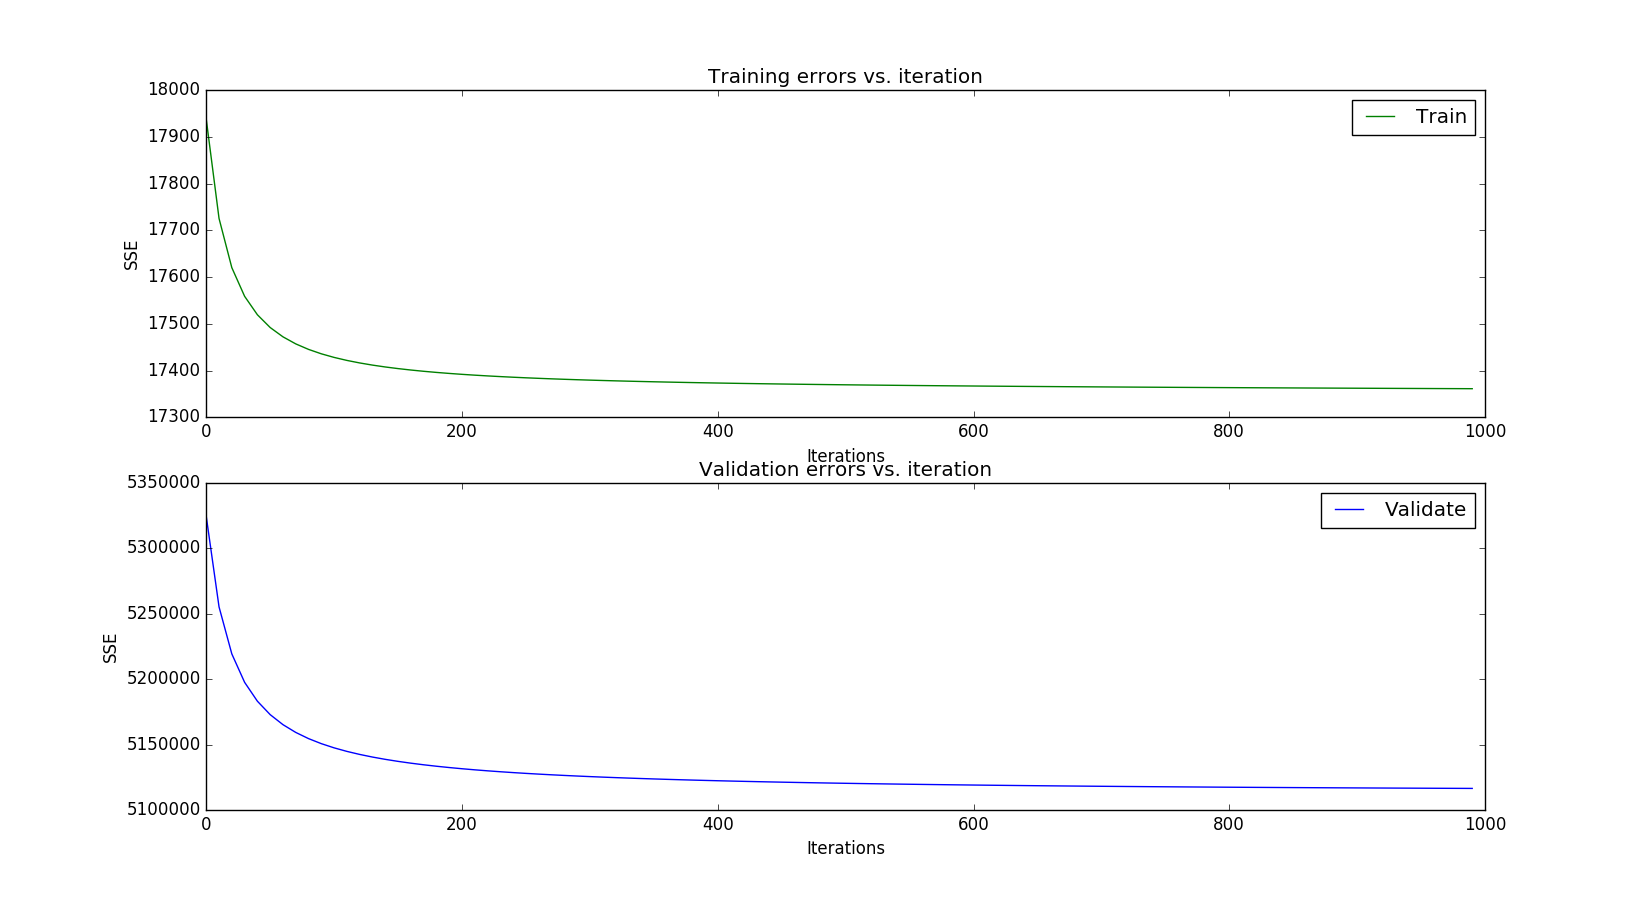
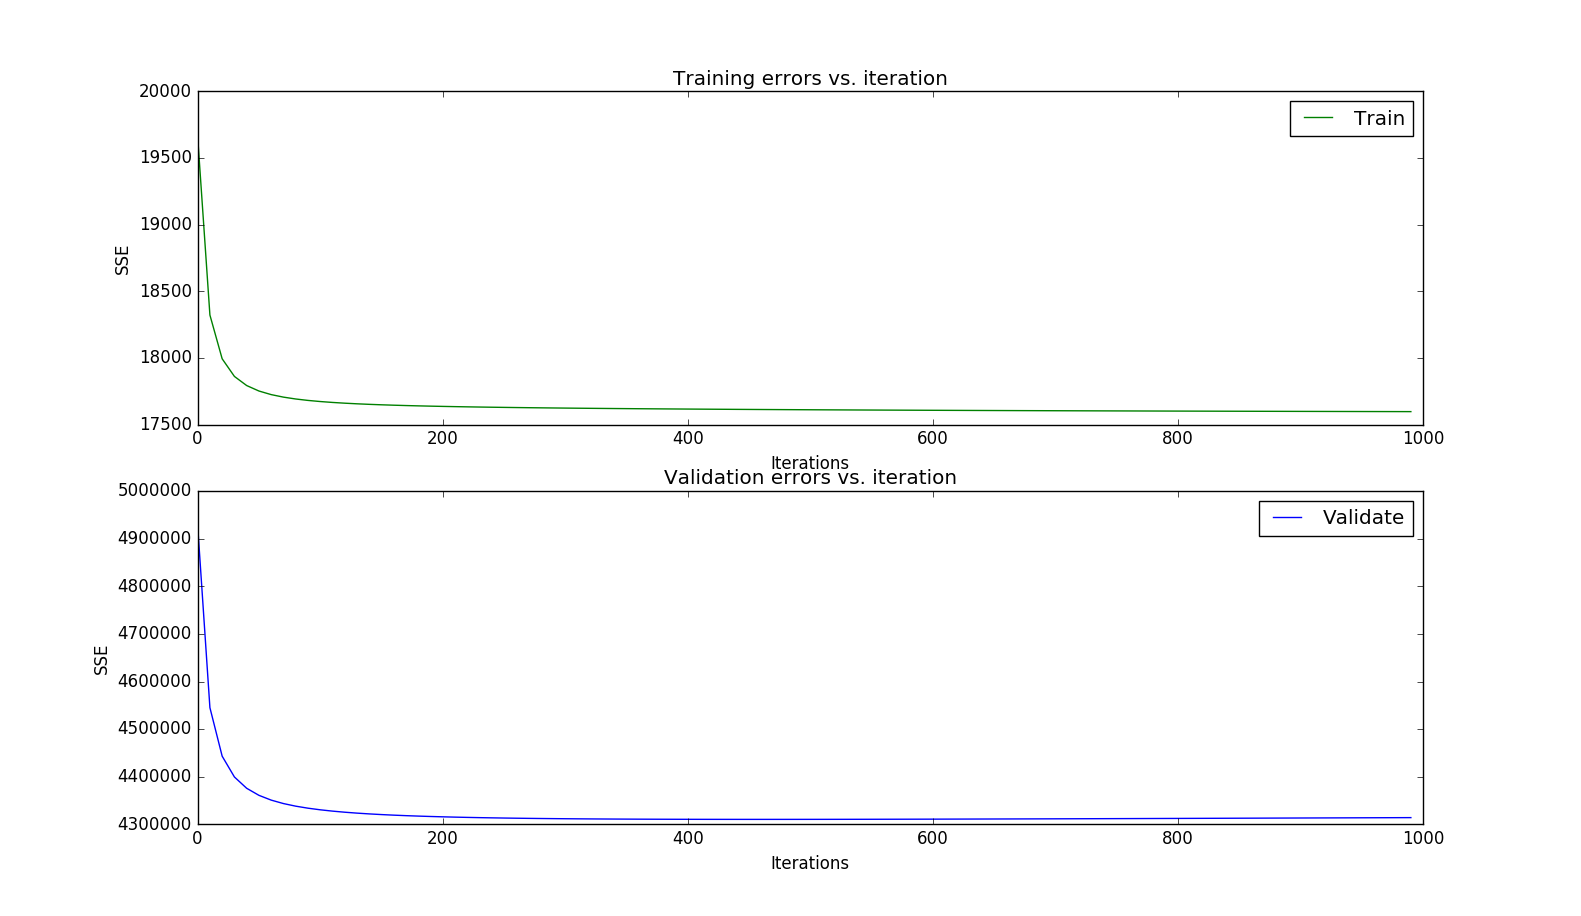
Performed experiments, added image, retrained neural net

diff --git a/HousingPrice.py b/HousingPrice.py
@@ -16,15 +16,18 @@ def get_neural_network(retrain=False):
 
 def predict_price(test_subject, nn):
 	# K-Nearest Neighbors
-	neighbors = get_neighbors(X_test, test_subject, 3)
+	neighbors = get_neighbors(X_test, test_subject, k=10)
 
 	# Combine forces
 	predictions_sum = 0.0
+	knn_predictions_sum = 0.0
 	for neighbor in neighbors:
-		predictions_sum += nn.predict(neighbor)
-	price = predictions_sum/len(neighbors)
+		predictions_sum += nn.predict(neighbor[0])
+		knn_predictions_sum += y_test[neighbor[1]]
+	price_combine = predictions_sum/len(neighbors)
+	price_knn = knn_predictions_sum/len(neighbors)
 
-	return price
+	return price_combine, price_knn
 
 	# print('Neural Network Prediction: {0}'.format(nn.predict(test_subject)))
 	# print('KNN Prediction: {0}'.format(price))
@@ -34,11 +37,12 @@ def square_diff(true, pred):
 	return (true-pred)**2
 
 def compare_knn(test_set=X_test):
-	print('Comparing error of NN with/without KNN')
+	print('Comparing error of NN, KNN, & combined')
 	nn = get_neural_network()
 
 	knnErrors = []
 	nnErrors = []
+	errors = []
 	for i in range(len(test_set)):
 		if (i % 100 == 0):
 			print('Iteration: {0}\tProgress: {1}%'.format(i, int(100*i/len(test_set))))
@@ -48,15 +52,18 @@ def compare_knn(test_set=X_test):
 		err = invertScale(square_diff(price, y_test[i]))
 		nnErrors.append(err)
 
-		# Neural Net clothed with KNN
-		price = predict_price(X_test[i], nn)
+		# Neural Net clothed with KNN / Bare KNN
+		price, knn_price = predict_price(X_test[i], nn)
 		err = invertScale(square_diff(price, y_test[i]))
-		knnErrors.append(err)
+		errors.append(err)
+		knn_err = invertScale(square_diff(knn_price, y_test[i]))
+		knnErrors.append(knn_err)
 
 	knnError = np.mean(knnErrors)
 	nnError = np.mean(nnErrors)
+	error = np.mean(errors)
 
-	print('NN MSE: {0}\tKNN MSE:{1}'.format(nnError, knnError))
+	print('NN MSE: {0}\tKNN MSE:{1}\ttogether:{2}'.format(nnError, knnError, error))
 
 def test_sample():
 	test_subject = 50
@@ -64,7 +71,8 @@ def test_sample():
 	n = nn.predict(X_test[test_subject])
 	k = predict_price(X_test[test_subject], nn)
 	print('Neural Net: {0}, {1}'.format(n, invertScale(n)))
-	print('With KNN: {0}, {1}'.format(k, invertScale(k)))
+	print('KNN: {0}, {1}'.format(k[1], invertScale(k[1])))
+	print('Combined: {0}, {1}'.format(k[0], invertScale(k[0])))
 	print('Actual Price: {0}, {1}:'.format(y_test[test_subject], invertScale(y_test[test_subject])))
 
 

diff --git a/knn.py b/knn.py
@@ -11,13 +11,12 @@ def get_neighbors(neighborhood, house, k):
 	distances = []
 	for i in range(len(neighborhood)):
 		distance = euclidean_distance(house, neighborhood[i])
-		distances.append((neighborhood[i], distance))
+		distances.append((neighborhood[i], i, distance))
 
-	distances.sort(key=operator.itemgetter(1))
+	distances.sort(key=operator.itemgetter(2))
 
 	neighbors = []
 	for i in range(k):
-		neighbors.append(distances[i][0])
+		neighbors.append(distances[i])
 		
 	return neighbors
-
